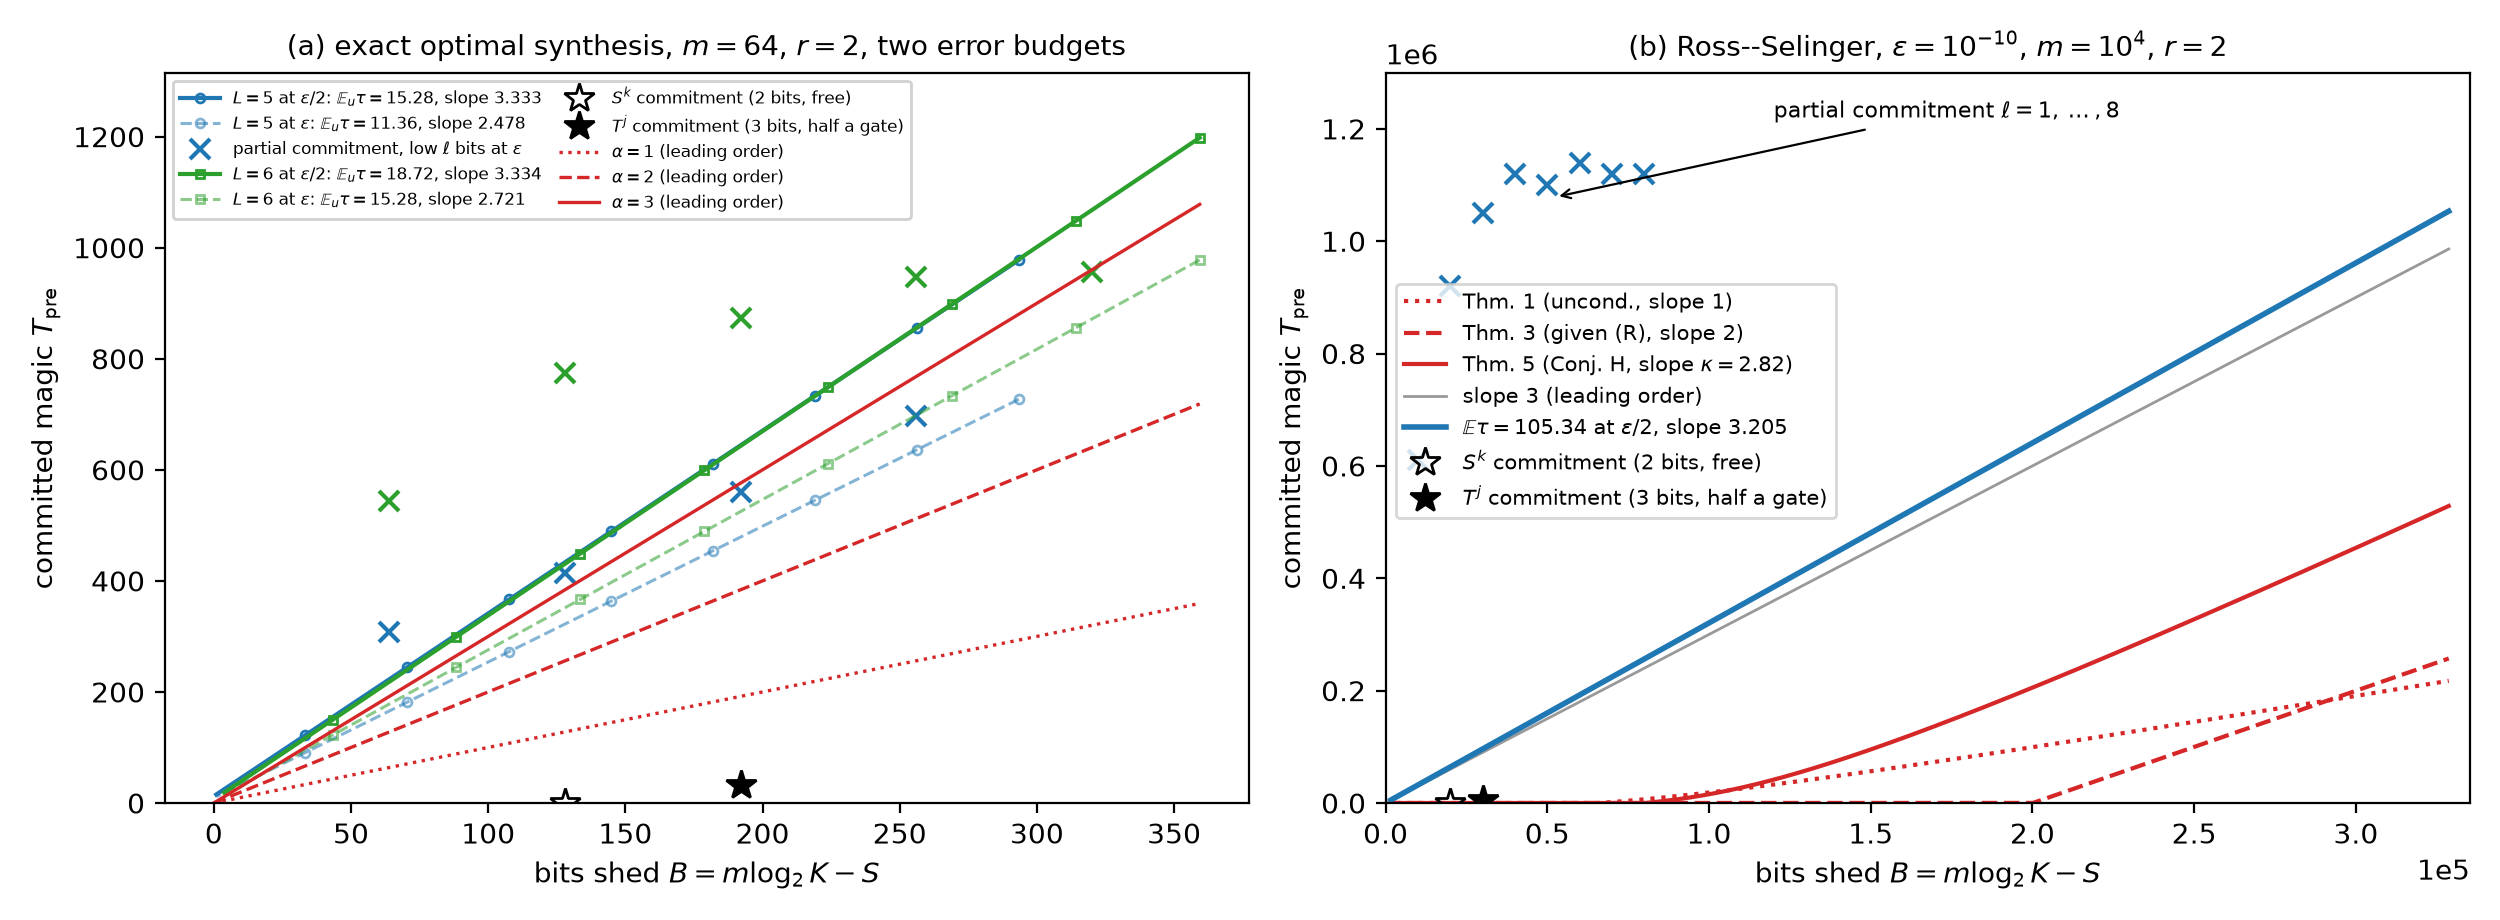
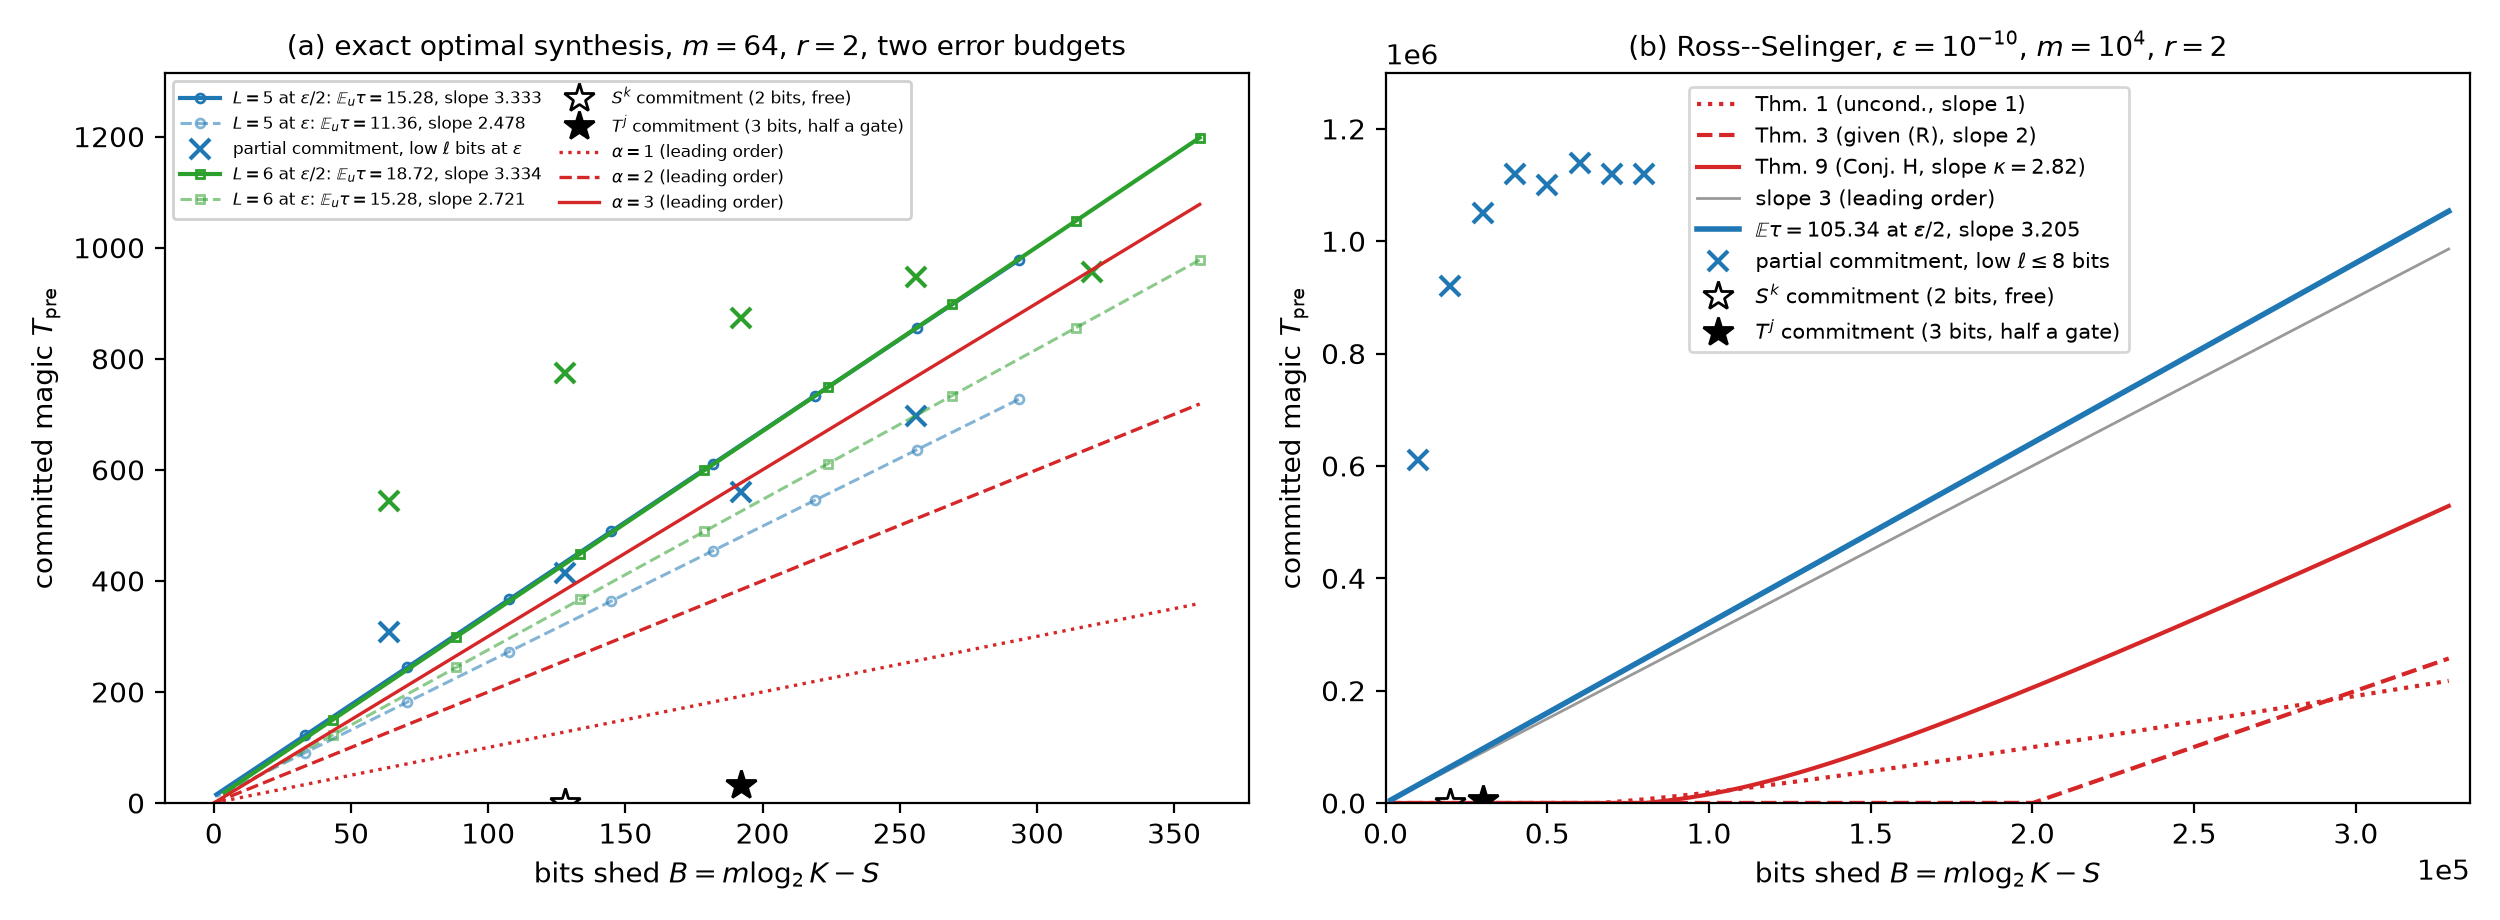
Typesetting pass: acknowledgments wording, no overfull boxes, Fig. 2 legend (Thm. 9) and placement, Renner-Wolf reference

Changed region(s): [[0.5616, 0.0913, 0.8424, 0.5783], [0.624, 0.1826, 0.6864, 0.213]]

diff --git a/main.tex b/main.tex
@@ -162,9 +162,9 @@ Theorem~\ref{thm:main1} is the bit-level theorem of~\cite{Paper1} with Lemma~\re
 
 \paragraph{Arithmetic structure.} Single-qubit Clifford+$T$ modulo phase is the full $\{(\sqrt2)\}$-arithmetic group $\Gamma$ of the maximal order
 \begin{equation}
-\mathcal O=\mathcal O_K\oplus\mathcal O_K\tfrac{1+i}{\sqrt2}\oplus\mathcal O_K\tfrac{1+j}{\sqrt2}\oplus\mathcal O_K\tfrac{1+i+j+k}{2},\quad\mathcal O_K=\Z[\sqrt2],\label{eq:order}
+\mathcal O=\mathcal O_K\oplus\mathcal O_K\tfrac{1+i}{\sqrt2}\oplus\mathcal O_K\tfrac{1+j}{\sqrt2}\oplus\mathcal O_K\tfrac{1+i+j+k}{2}\label{eq:order}
 \end{equation}
-of the definite quaternion algebra $D=(-1,-1)_{\Q(\sqrt2)}$ \cite{KMM13,PS18}. $D$ splits at the prime $P=(\sqrt2)$; the completion $K_P=\Q_2(\sqrt2)$ has residue field $\F_2$, and $\Gamma$ acts on the $3$-regular Bruhat--Tits tree $X_P$ with vertex stabilizer $U=\mathcal O^\times/\mathcal O_K^\times\cong S_4$, the single-qubit Clifford group modulo phase, of order $24$~\cite[\S4.1.3]{PS18}. \emph{$T$-count equals tree distance:} the sphere of radius $t$ has $3\cdot2^{t-1}$ vertices, and $24\cdot3\cdot2^{t-1}=36\cdot2^t$ is exactly Lemma~\ref{lem:MA}. Let $\Lambda_k\subset\Gamma$ be the ball of $T$-count $\le k$, $N_k=|\Lambda_k|=72\cdot2^k-48$, and for a left-$U$-invariant $h\in L^2(\PU)$ let $T_jh(g):=\sum_{\gamma U:\,d(\gamma v_0,v_0)=j}h(\gamma^{-1}g)$ be the Hecke operator of level $j$.
+of the definite quaternion algebra $D=(-1,-1)_{\Q(\sqrt2)}$, where $\mathcal O_K=\Z[\sqrt2]$~\cite{KMM13,PS18}. $D$ splits at the prime $P=(\sqrt2)$; the completion $K_P=\Q_2(\sqrt2)$ has residue field $\F_2$, and $\Gamma$ acts on the $3$-regular Bruhat--Tits tree $X_P$ with vertex stabilizer $U=\mathcal O^\times/\mathcal O_K^\times\cong S_4$, the single-qubit Clifford group modulo phase, of order $24$~\cite[\S4.1.3]{PS18}. \emph{$T$-count equals tree distance:} the sphere of radius $t$ has $3\cdot2^{t-1}$ vertices, and $24\cdot3\cdot2^{t-1}=36\cdot2^t$ is exactly Lemma~\ref{lem:MA}. Let $\Lambda_k\subset\Gamma$ be the ball of $T$-count $\le k$, $N_k=|\Lambda_k|=72\cdot2^k-48$, and for a left-$U$-invariant $h\in L^2(\PU)$ let $T_jh(g):=\sum_{\gamma U:\,d(\gamma v_0,v_0)=j}h(\gamma^{-1}g)$ be the Hecke operator of level $j$.
 
 \paragraph{Input (R).} On $L^2_0(U\backslash\PU)$ one has $\|T_j\|\le(j+1)2^{j/2}$~\cite[Eq.~(3.10)]{PS18}. This is the Ramanujan bound~\cite{LPS} for the Clifford+$T$ lattice, an $S$-arithmetic subgroup of the definite quaternion algebra over $\Q(\sqrt2)$ split at the prime above $2$. Its proof in~\cite{PS18} rests on the Ramanujan property of the automorphic representations that occur in $L^2(\Gamma\backslash G)$; for the forms that arise here that property is a theorem, by Deligne's bound in the elliptic modular case~\cite{Deligne} with the local--global compatibility of~\cite{HarrisTaylor}, transferred by Jacquet--Langlands to the quaternionic side~\cite{Blasius}. We use only the resulting bound, and refer to~\cite[Sec.~3]{PS18} for the dictionary between the spherical harmonics of Appendix~\ref{app:tube} and the weights of the corresponding Hilbert modular forms. The non-backtracking version~\cite[Eqs.~(5.2)--(5.3)]{PS18} gives the same bound directly for the Matsumoto--Amano syllables $HT$ and $SHT$.
 
@@ -719,26 +719,26 @@ No.~2025B0303000007), and the Shenzhen Science and Technology Program
 
 Generative AI tools were used to assist with manuscript drafting and
 revision, code and repository maintenance, literature discovery, and
-consistency checks. The authors directed its use through task-specific
+consistency checks. The authors directed their use through task-specific
 prompts and independently reviewed the generated text, citations, code, and
 numerical claims against the cited literature, source files, executable tests,
-and the symbolic or dense certificates reported in this work. AI output was
+and the exact rational certificates reported in this work. AI output was
 not treated as a scientific source or as independent proof verification. The
 authors take full responsibility for the manuscript, proofs, code, data,
 figures, citations, and conclusions.
 \end{acknowledgments}
 
 \section*{Author contributions}
-J.Y. developed the theory and proofs, implemented the compiler instrumentation
-and experimental pipeline, and performed the majority of the measurements and
-analyses. Y.L. supervised the research, reviewed and revised the manuscript,
+J.Y. developed the theory and proofs, implemented the enumeration, synthesis and certificate code, and performed
+the numerical computations and analyses. Y.L. supervised the research, reviewed and revised the manuscript,
 and provided project administration and funding support. X.-H.D.
 independently validated the theoretical derivations, numerical results, and
 computational artifacts. All authors wrote the manuscript together,
 discussed the results, and approved the final version.
 
 \section*{Data availability}
-The exhaustive enumeration of Clifford+$T$ words to $T$-count $22$, the coset counts of Table~\ref{tab:counts} and Fig.~\ref{fig:tube}, the exact-optimal and \texttt{gridsynth} data of Fig.~\ref{fig:frontier}, and every script that produces a number or figure of this paper are available at \url{https://github.com/OIerYangJZ/memory-magic-exchange-law}. The scripts are in \texttt{scripts/}, among them \texttt{enum2.py} and \texttt{enum\_arith.py} (the enumeration and coset counts), \texttt{gridsynth\_run.py}, \texttt{fig1\_fig.py} and \texttt{make\_fig2.py} (the figures), \texttt{thm\_numbers.py} (Table~\ref{tab:numbers}), \texttt{mixing\_bounds.py} (the constants of Sec.~\ref{sec:mixing}) and \texttt{scan2.py}, \texttt{scan2\_report.py} and \texttt{astra1.py} (the frame scans of Sec.~\ref{sec:num}). The exact rational certificates of Appendices~\ref{app:elem} and~\ref{app:dioph} are \texttt{research/cert/certificate.py}, \texttt{research/cert/certificate\_223.py} and \texttt{research/dioph/cert\_dioph.py}. The repository README lists, for every table, figure and theorem, the script and data file that produce it.
+{\raggedright
+The exhaustive enumeration of Clifford+$T$ words to $T$-count $22$, the coset counts of Table~\ref{tab:counts} and Fig.~\ref{fig:tube}, the exact-optimal and \texttt{gridsynth} data of Fig.~\ref{fig:frontier}, and every script that produces a number or figure of this paper are available at \url{https://github.com/OIerYangJZ/memory-magic-exchange-law}. The scripts are in \texttt{scripts/}, among them \texttt{enum2.py} and \texttt{enum\_arith.py} (the enumeration and coset counts), \texttt{gridsynth\_run.py}, \texttt{fig1\_fig.py} and \texttt{make\_fig2.py} (the figures), \texttt{thm\_numbers.py} (Table~\ref{tab:numbers}), \texttt{mixing\_bounds.py} (the constants of Sec.~\ref{sec:mixing}) and \texttt{scan2.py}, \texttt{scan2\_report.py} and \texttt{astra1.py} (the frame scans of Sec.~\ref{sec:num}). The exact rational certificates of Appendices~\ref{app:elem} and~\ref{app:dioph} are \texttt{research/cert/certificate.py}, \texttt{research/cert/certificate\_223.py} and \texttt{research/dioph/cert\_dioph.py}. The repository README lists, for every table, figure and theorem, the script and data file that produce it.\par}
 
 \appendix
 
@@ -1172,7 +1172,7 @@ The minimum $G$ is attained at $X=0$, $\vartheta=\tfrac{E_*-4}2$.
 \item \emph{Points per section.} Such a section contains at most $R'^{o(1)}$ times the smaller of two quantities.
 \begin{itemize}\setlength\itemsep{0pt}
 \item \emph{Tube bound} (Lemmas~\ref{lem:F2},~\ref{lem:F3}(b) and~\ref{lem:F4}(i)): $R'^{(1+(S_T+2U_T-y_{j-1})/3)_+}$, where $U_T=\min(1-a_0,1-g_i)$ and $S_T=\min\big(\tfrac12(1+\ell_\varepsilon),1-g_i\big)$, lowered to $\min(S_T,\ell_\varepsilon+\tfrac12(1-D_l))$ for crossing sections.
-\item \emph{Box bound}: the number $R'^{(S_T-(1-b))_++2(U_T-(1-a))_+}$ of boxes meeting $Y\cap(\text{tube})$, times $R'^{\mathrm{cost}}$, with the cost~\eqref{eq:cost} at height $y_{j-1}$, with $U_0=\min(1-a,1-g_i)$ and with $S_0=\min\big(1-b,\tfrac12(1+\ell_\rho),1-g_i\big)$, lowered to $\min(S_0,\ell_\rho+\tfrac12(1-D_l))$ for crossing sections (Lemma~\ref{lem:F4}(ii)).
+\item \emph{Box bound}: the number of boxes meeting $Y\cap(\text{tube})$, which is at most $R'^{(S_T-(1-b))_++2(U_T-(1-a))_+}$, times $R'^{\mathrm{cost}}$, with the cost~\eqref{eq:cost} at height $y_{j-1}$, with $U_0=\min(1-a,1-g_i)$ and with $S_0=\min\big(1-b,\tfrac12(1+\ell_\rho),1-g_i\big)$, lowered to $\min(S_0,\ell_\rho+\tfrac12(1-D_l))$ for crossing sections (Lemma~\ref{lem:F4}(ii)).
 \end{itemize}
 \end{itemize}
 The layer is bounded if the normals, the offsets and the points per section together have exponent $\le E_*$ for the tangent class and for each crossing class.
@@ -1185,7 +1185,7 @@ All the quantities involved are monotone in $g$, $y$ and $\Delta$ on each interv
 \end{itemize}
 There are finitely many cases, and Lemma~\ref{lem:F5} is applied to finitely many pairs $(g_i,y_j)$. If its first alternative occurs in any of them, $\#X_t\le R'^{E_*+o(1)}$ directly.
 
-\paragraph{Certificate.} An exact rational computation (\texttt{research/dioph/cert\_dioph.py}, run as \texttt{cert\_dioph.py 28/17 28/17 157/100 11183/6800 400 100 12}; the output is the same with $8$ crossing classes) checks every case: $b=\tfrac{157}{100}\le E_*$, the large sections, and for each $i$ either $b+\mathrm{cost}_i(0)\le E_*$ or a threshold $y^*\le\tfrac{23}{25}$ together with all its low layers. Cells are rational witnesses. The largest exponent the certificate checks is $\tfrac{67097}{40800}=1.64453<E_*=1.64456$, near $g\approx1.5$; it stops at the first admissible threshold. A float re-implementation, pointwise in $g$ and continuous in the layers and crossing depths (\texttt{research/verify4/indep\_model.py}), gives $1.6347$. The margin that matters is $a_0-E_*=\tfrac1{400}$. Hence $\#X_t\le R'^{E_*+o(1)}$. Every factor hidden in the $o(1)$ is an absolute constant, of which there are finitely many, or the bound $2^{O(t/\log t)}$ of Lemma~\ref{lem:E5}, and bounded $t$ are absorbed as in Appendix~\ref{app:elem}. This proves~\eqref{eq:dioph} with $\eta(t)=O(t/\log t)$.
+\paragraph{Certificate.} {\raggedright An exact rational computation (\texttt{research/dioph/cert\_dioph.py}, run as \texttt{cert\_dioph.py 28/17 28/17 157/100 11183/6800 400 100 12}; the output is the same with $8$ crossing classes) checks every case: $b=\tfrac{157}{100}\le E_*$, the large sections, and for each $i$ either $b+\mathrm{cost}_i(0)\le E_*$ or a threshold $y^*\le\tfrac{23}{25}$ together with all its low layers. Cells are rational witnesses. The largest exponent the certificate checks is $\tfrac{67097}{40800}=1.64453<E_*=1.64456$, near $g\approx1.5$; it stops at the first admissible threshold. A float re-implementation, pointwise in $g$ and continuous in the layers and crossing depths (\texttt{research/verify4/indep\_model.py}), gives $1.6347$. The margin that matters is $a_0-E_*=\tfrac1{400}$. Hence $\#X_t\le R'^{E_*+o(1)}$. Every factor hidden in the $o(1)$ is an absolute constant, of which there are finitely many, or the bound $2^{O(t/\log t)}$ of Lemma~\ref{lem:E5}, and bounded $t$ are absorbed as in Appendix~\ref{app:elem}. This proves~\eqref{eq:dioph} with $\eta(t)=O(t/\log t)$.\par}
 
 \section{Proof of Theorem~\ref{thm:clifford}}\label{app:clifford}
 
@@ -1330,7 +1330,7 @@ Theorem~\ref{thm:mixing} is asymptotic in the same sense as Theorems~\ref{thm:ma
 \bibitem{Deligne} P. Deligne, La conjecture de Weil I, Publ. Math. IHES \textbf{43}, 273 (1974).
 \bibitem{HarrisTaylor} M. Harris and R. Taylor, The Geometry and Cohomology of Some Simple Shimura Varieties, Annals of Mathematics Studies \textbf{151} (Princeton University Press, 2001).
 \bibitem{Blasius} D. Blasius, Hilbert modular forms and the Ramanujan conjecture, in Noncommutative Geometry and Number Theory, edited by C. Consani and M. Marcolli, Aspects of Mathematics \textbf{E37} (Vieweg, Wiesbaden, 2006), pp.~35--56.
-\bibitem{RennerWolf} R. Renner and S. Wolf, Simple and tight bounds for information reconciliation and privacy amplification, ASIACRYPT 2005, LNCS 3788, 199.
+\bibitem{RennerWolf} R. Renner and S. Wolf, Simple and tight bounds for information reconciliation and privacy amplification, in \emph{Advances in Cryptology -- ASIACRYPT 2005}, Lecture Notes in Computer Science Vol.~3788 (Springer, Berlin, 2005), pp.~199--216.
 \bibitem{TomamichelHayashi} M. Tomamichel and M. Hayashi, A hierarchy of information quantities for finite block length analysis of quantum tasks, IEEE Trans. Inf. Theory \textbf{59}, 7693 (2013).
 \bibitem{BRS} A. Bocharov, M. Roetteler, and K. M. Svore, Efficient synthesis of universal repeat-until-success quantum circuits, Phys. Rev. Lett. \textbf{114}, 080502 (2015).
 \bibitem{KLMPP} V. Kliuchnikov, K. Lauter, R. Minkov, A. Paetznick, and C. Petit, Shorter quantum circuits via single-qubit gate approximation, Quantum \textbf{7}, 1208 (2023).

diff --git a/scripts/make_fig2.py b/scripts/make_fig2.py
@@ -1,9 +1,9 @@
 """make_fig2.py -- Fig. 2: the fractional-passthrough tradeoff family against the lower bounds.
 (a) exact optimal synthesis from data/taumin_eps_half.json (L = 5, 6, m = 64, r = 2),
-    at both error budgets: eps/2 (the certified r = 2 point of Thm. 4) and eps (a calibration);
-(b) Ross-Selinger (gridsynth) calibration at eps = 1e-10, m = 1e4, r = 2, against Theorems 1, 3, 5.
+    at both error budgets: eps/2 (the certified r = 2 point of Thm. 8) and eps (a calibration);
+(b) Ross-Selinger (gridsynth) calibration at eps = 1e-10, m = 1e4, r = 2, against Theorems 1, 3, 9.
 
-Called from the package root, like the other scripts:  ../.venv/bin/python scripts/make_fig2.py
+Called from the repository root, like the other scripts:  .venv/bin/python scripts/make_fig2.py
 Supersedes frontier_fig2.py (kept as .bak-rev1), which drew the pre-v6 panel (b)."""
 import json, os, sys, numpy as np
 import matplotlib
@@ -15,7 +15,7 @@ import thm_numbers as tn
 fig, (ax1, ax2) = plt.subplots(1, 2, figsize=(12.5, 4.6))
 
 # ------------------------------------------------ (a)
-# Two error budgets.  The certified r = 2 point of Thm. 4 synthesizes each committed share
+# Two error budgets.  The certified r = 2 point of Thm. 8 synthesizes each committed share
 # to eps/2; evaluating tau_min at eps instead is a single-rotation calibration, not a point
 # of the family.  data/taumin_eps_half.json carries both (scripts/frontier_eps_half.py);
 # its taumin_eps column reproduces data/taumin_exact.json grid point by grid point.
@@ -60,22 +60,21 @@ bs = np.linspace(0, k, 400)
 B = m * bs
 ax2.plot(B, m * np.array([tn.thm1(b) for b in bs]), ':', color='tab:red', label='Thm. 1 (uncond., slope 1)')
 ax2.plot(B, m * np.array([tn.thm3(b) for b in bs]), '--', color='tab:red', label='Thm. 3 (given (R), slope 2)')
-ax2.plot(B, m * np.array([tn.thm5(b) for b in bs]), '-', color='tab:red',
-         label=r'Thm. 5 (Conj. H, slope $\kappa=%.2f$)' % tn.kappa)
+ax2.plot(B, m * np.array([tn.thm9(b) for b in bs]), '-', color='tab:red',
+         label=r'Thm. 9 (Conj. H, slope $\kappa=%.2f$)' % tn.kappa)
 ax2.plot(B, 3 * B, '-', color='0.6', lw=1, label='slope 3 (leading order)')
 Etau = 105.34   # gridsynth mean at eps/2, the certified share accuracy for r = 2 (102.32 at eps)
 q = np.linspace(0, m, 200); S = q * np.log2(Q); Bp = m * k - S; ok = Bp >= 0
 ax2.plot(Bp[ok], (m - q[ok]) * Etau, '-', color='tab:blue', lw=2,
          label=r'$\mathbb{E}\tau=105.34$ at $\varepsilon/2$, slope %.3f' % (Etau / np.log2(Q)))
 per_bit = [61, 46, 35, 28, 22, 19, 16, 14]
-ax2.plot([l * m for l in range(1, 9)], [l * c * m for l, c in enumerate(per_bit, 1)], 'x', color='tab:blue', ms=7, mew=1.5)
-ax2.annotate(r'partial commitment $\ell=1,\dots,8$', xy=(5.2 * m, 4.9 * 22 * m), xytext=(1.2e5, 1.22e6),
-             fontsize=8, arrowprops=dict(arrowstyle='->', lw=0.8))
+ax2.plot([l * m for l in range(1, 9)], [l * c * m for l, c in enumerate(per_bit, 1)], 'x', color='tab:blue', ms=7, mew=1.5,
+         ls='none', label=r'partial commitment, low $\ell\leq8$ bits')
 ax2.plot([2 * m], [0], marker='*', mfc='none', mec='k', ms=11, ls='none', label=r'$S^k$ commitment (2 bits, free)')
 ax2.plot([3 * m], [0.5 * m], 'k*', ms=11, label=r'$T^j$ commitment (3 bits, half a gate)')
 ax2.set_xlabel(r'bits shed $B=m\log_2K-S$'); ax2.set_ylabel(r'committed magic $T_{\mathrm{pre}}$')
 ax2.set_title(r'(b) Ross--Selinger, $\varepsilon=10^{-10}$, $m=10^4$, $r=2$', fontsize=10)
-ax2.set_xlim(0, 1.02 * m * k); ax2.set_ylim(0, 1.3e6); ax2.legend(fontsize=7.5, loc='center left', bbox_to_anchor=(0.0, 0.55))
+ax2.set_xlim(0, 1.02 * m * k); ax2.set_ylim(0, 1.3e6); ax2.legend(fontsize=7.5, loc='upper left', bbox_to_anchor=(0.27, 0.995))
 ax2.ticklabel_format(style='sci', scilimits=(0, 0), axis='both')
 
 plt.tight_layout()
